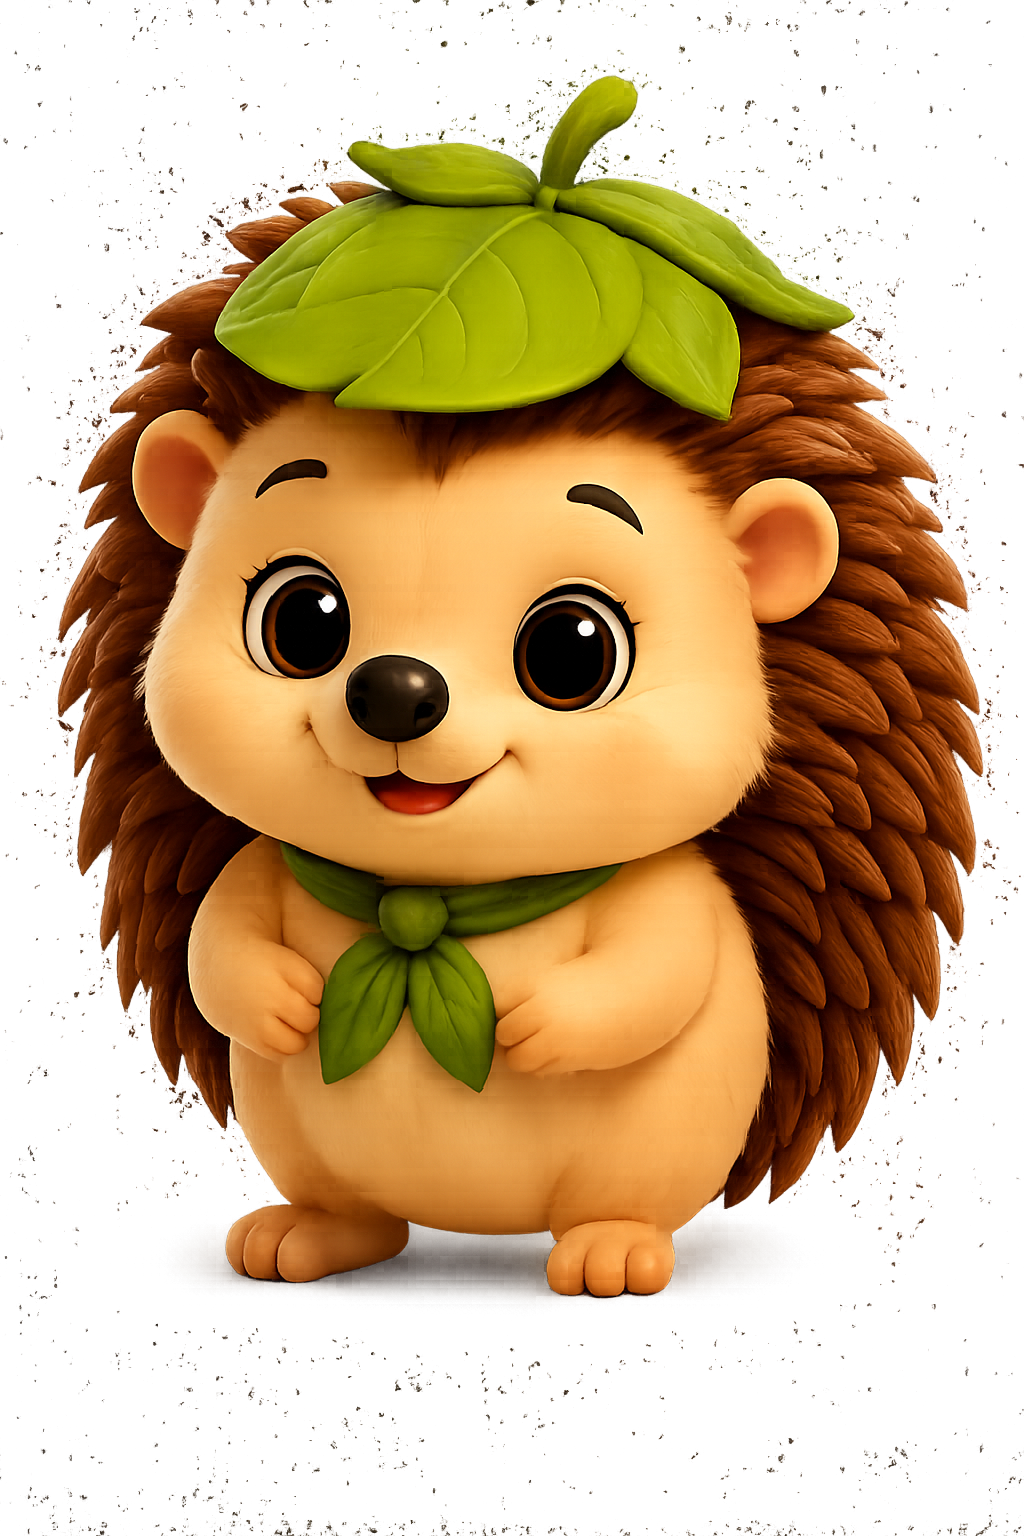
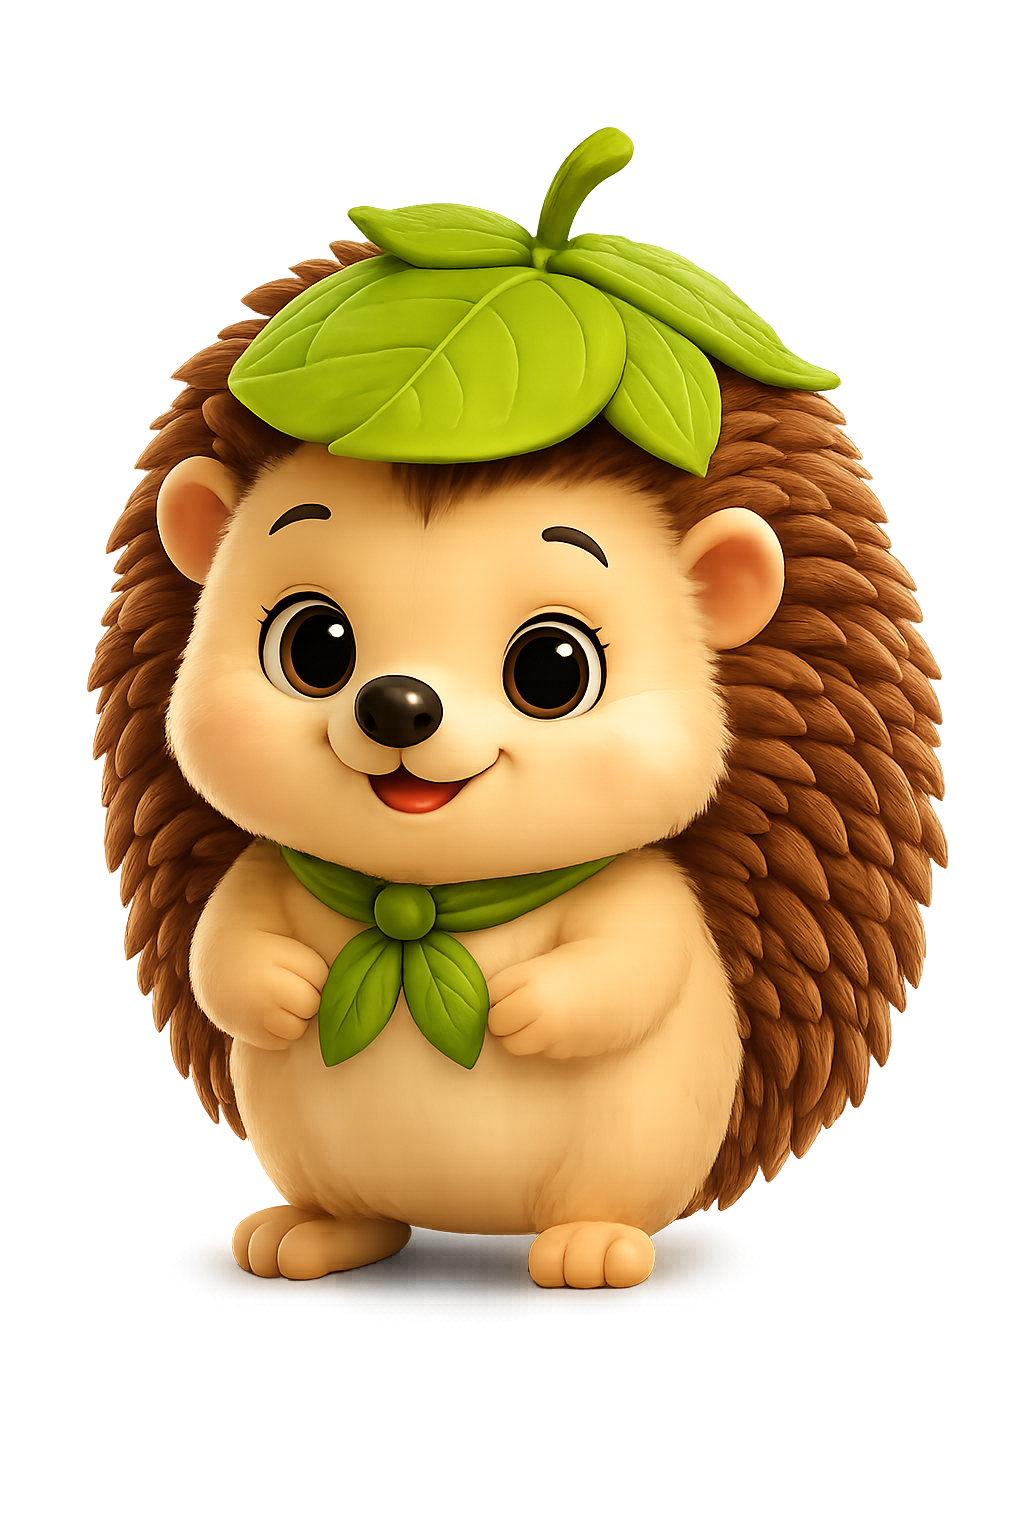
karakterler güncellendi

diff --git a/client/src/components/CharacterCard.css b/client/src/components/CharacterCard.css
@@ -4,10 +4,10 @@
   flex-direction: column;
   align-items: center;
   gap: 8px;
-  padding: 0 0 10px;
+  padding: 8px 8px 12px;
   background: transparent;
   border: none;
-  border-radius: 0;
+  border-radius: 20px;
   cursor: pointer;
   transition: transform 0.22s cubic-bezier(0.34, 1.56, 0.64, 1);
   position: relative;
@@ -29,11 +29,35 @@
   filter: grayscale(60%);
 }
 
+/* ── Dolu mor/lavanta seçim arka planı — SADECE ÇOCUKLAR ── */
+.char-selected-bg {
+  position: absolute;
+  inset: 0;
+  border-radius: 20px;
+  background: rgba(200, 185, 255, 0.25);
+  border: 2px solid rgba(180, 160, 255, 0.55);
+  pointer-events: none;
+  z-index: 0;
+  animation: selectedBgIn 0.22s cubic-bezier(0.34, 1.56, 0.64, 1);
+}
+
+[data-theme="light"] .char-selected-bg {
+ background: rgba(255, 255, 255, 0.15);
+border: 2px solid rgba(255, 255, 255, 0.4);
+}
+
+@keyframes selectedBgIn {
+  0%   { opacity: 0; transform: scale(0.9); }
+  100% { opacity: 1; transform: scale(1); }
+}
+
 /* ── Görsel: arka planla kaynaşır ── */
 .char-visual {
   position: relative;
+  z-index: 1;
   width: 100%;
-  aspect-ratio: 1 / 1.35;
+  /* Sabit yükseklik — tüm çocuklar aynı hizada */
+  height: 220px;
   background: transparent;
   display: flex;
   align-items: flex-end;
@@ -62,20 +86,19 @@
   transform: scaleX(1.1);
 }
 
-/* ── Çocuk görselleri — orijinal boyut korunur ── */
+/* ── Çocuk görselleri — sabit yükseklik, hizalı ── */
 .char-visual img {
   position: relative;
   z-index: 1;
-  width: 100%;
+  width: auto;
   height: 100%;
+  max-width: 100%;
   object-fit: contain;
   object-position: center bottom;
   display: block;
   filter: drop-shadow(0 8px 16px rgba(26,26,46,0.18));
   transition: transform 0.22s ease, filter 0.22s ease;
-  transform: scale(1.15);
   transform-origin: bottom center;
-  /* Koyu arka planı sayfa rengiyle eritir — kalite kaybı yok */
   mix-blend-mode: lighten;
 }
 
@@ -86,14 +109,12 @@
 
 .char-card:hover:not(.disabled) .char-visual img {
   filter: drop-shadow(0 14px 24px rgba(26,26,46,0.25));
-  transform: scale(1.22) translateY(-4px);
+  transform: translateY(-4px);
   transform-origin: bottom center;
 }
 
 .char-card.selected .char-visual img {
   filter: drop-shadow(0 10px 20px rgba(155,89,182,0.4));
-  transform: scale(1.18);
-  transform-origin: bottom center;
 }
 
 /* ── Hayvan görselleri — biraz daha küçük ── */
@@ -169,8 +190,8 @@
   color: var(--plum);
 }
 
-/* ── Seçili parlama halkası ── */
-.char-selected-ring {
+/* ── Seçili parlama halkası — SADECE HAYVANLAR için korundu ── */
+.char-card--animal .char-selected-ring {
   position: absolute;
   inset: -8px -8px 0px;
   border-radius: 50% 50% 50% 50% / 40% 40% 60% 60%;

diff --git a/client/src/components/CharacterCard.jsx b/client/src/components/CharacterCard.jsx
@@ -3,6 +3,7 @@ import './CharacterCard.css';
 
 export default function CharacterCard({ character, selected, onToggle, lang, disabled, variant }) {
   const name = character.name[lang] || character.name.tr;
+  const isAnimal = variant === 'animal';
 
   return (
     <button
@@ -11,6 +12,9 @@ export default function CharacterCard({ character, selected, onToggle, lang, dis
       type="button"
       title={name}
     >
+      {/* Seçili highlight kutusu — sadece çocuklar için */}
+      {selected && <div className="char-selected-bg" />}
+
       <div className="char-visual">
         <div className="char-glow" />
         <img
@@ -31,7 +35,9 @@ export default function CharacterCard({ character, selected, onToggle, lang, dis
         )}
       </div>
       <span className="char-name">{name}</span>
-      {selected && <div className="char-selected-ring" />}
+
+      {/* Hayvanlar için eski halka — dokunulmadı */}
+
     </button>
   );
 }